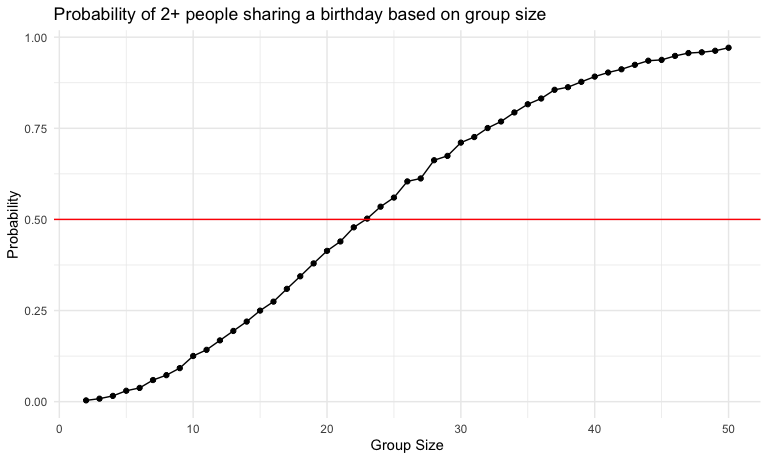
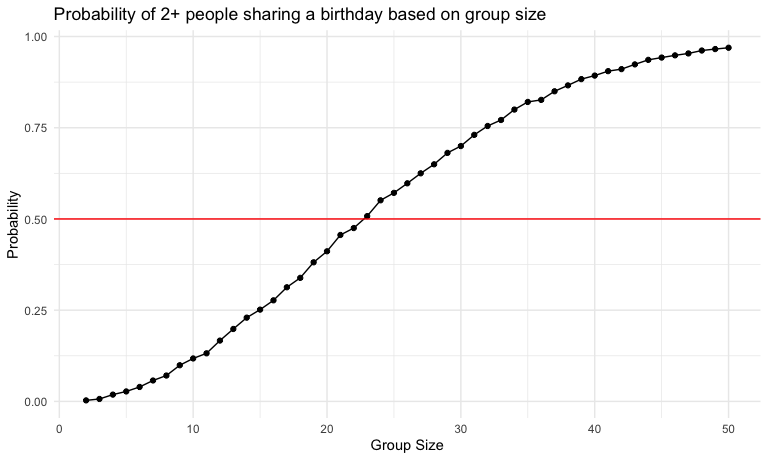
problem 2

diff --git a/p8105_hw5_sc5826.md b/p8105_hw5_sc5826.md
@@ -18,6 +18,22 @@ bday_sim_results =
   summarize(
     probability = mean(results)
   )
+
+bday_sim_results
+## # A tibble: 49 × 2
+##    group_size probability
+##         <int>       <dbl>
+##  1          2      0.0028
+##  2          3      0.0067
+##  3          4      0.0186
+##  4          5      0.0273
+##  5          6      0.0396
+##  6          7      0.0573
+##  7          8      0.0709
+##  8          9      0.0991
+##  9         10      0.118 
+## 10         11      0.132 
+## # ℹ 39 more rows
 ```
 
 ``` r
@@ -37,7 +53,160 @@ bday_sim_results|>
 
 The resulting curve is S-shaped, where the probability begins to taper
 around a group size of 50. At a group size of 2, the probability of at
-least 2 people sharing a birthday is 0.004. At a group size of 50, the
-probability of at least 2 people sharing a birthday is 0.971. To have
+least 2 people sharing a birthday is 0.003. At a group size of 50, the
+probability of at least 2 people sharing a birthday is 0.969. To have
 more than a 50% probability of at least 2 people sharing a birthday, the
 group size needs to be at least 23.
+
+## Problem 2
+
+Setting design parameters
+
+``` r
+n = 30
+sigma = 5
+mu = 0
+n_datasets = 5000
+alpha = 0.05
+```
+
+Running simulation for 𝜇 = 0:
+
+``` r
+normal_dist_sim_mu_0 = 
+  expand_grid(
+    mean = mu,
+    iter = 1:n_datasets
+  ) |> 
+  mutate(
+    results = map(mean, normal_distribution_sim)
+  ) |> 
+  unnest(results)
+normal_dist_sim_mu_0
+## # A tibble: 5,000 × 4
+##     mean  iter  mu_hat p.value
+##    <dbl> <int>   <dbl>   <dbl>
+##  1     0     1  0.0167   0.986
+##  2     0     2  0.227    0.843
+##  3     0     3 -0.517    0.517
+##  4     0     4 -0.246    0.804
+##  5     0     5  1.25     0.232
+##  6     0     6 -0.156    0.868
+##  7     0     7  0.373    0.719
+##  8     0     8 -0.563    0.475
+##  9     0     9  0.434    0.658
+## 10     0    10 -0.387    0.604
+## # ℹ 4,990 more rows
+```
+
+Repeating simulation for 𝜇 in {1, 2, 3, 4, 5, 6}:
+
+``` r
+normal_dist_sim = 
+  expand_grid(
+    mean = 1:6,
+    iter = 1:n_datasets
+  ) |> 
+  mutate(
+    results = map(mean, normal_distribution_sim)
+  ) |> 
+  unnest(results)
+normal_dist_sim
+## # A tibble: 30,000 × 4
+##     mean  iter mu_hat p.value
+##    <int> <int>  <dbl>   <dbl>
+##  1     1     1  1.21   0.135 
+##  2     1     2  1.40   0.149 
+##  3     1     3  1.85   0.0540
+##  4     1     4  1.25   0.184 
+##  5     1     5  1.28   0.186 
+##  6     1     6  1.84   0.103 
+##  7     1     7  0.616  0.528 
+##  8     1     8  1.91   0.0446
+##  9     1     9  1.64   0.0795
+## 10     1    10  2.06   0.0679
+## # ℹ 29,990 more rows
+```
+
+Plotting effect size vs. power
+
+``` r
+normal_dist_sim |> 
+  group_by(mean) |> 
+  summarize(
+    power = sum(p.value < alpha) / n()
+  ) |> 
+  ggplot(aes(x = mean, y = power)) + 
+  geom_point() +
+  geom_line() + 
+  xlab("True Mean (Effect Size)") + 
+  ylab("Power") + 
+  labs(
+    title = "Effect Size vs. Power"
+  ) 
+```
+
+<img src="p8105_hw5_sc5826_files/figure-gfm/unnamed-chunk-6-1.png" width="90%" />
+
+There is an overall positive correlation between effect size and power.
+When effect sizes are very small (\< 2), power is low. This means the
+null hypothesis (𝜇 = 0) is failing to be rejected more often. At larger
+effect sizes (\> 4), power is nearly 1. This means the null hypothesis
+(𝜇 = 0) is being rejected nearly every time.
+
+``` r
+avg_estimates = 
+  normal_dist_sim |> 
+  group_by(mean) |> 
+  summarize(avg_mu_hat = mean(mu_hat), n = n()) |> 
+  mutate(estimates_source = "All Samples")
+
+avg_estimates_null_rejected = normal_dist_sim |> 
+  filter(p.value < 0.05) |> 
+  group_by(mean) |> 
+  summarize(avg_mu_hat = mean(mu_hat), n = n()) |> 
+  mutate(estimates_source = "Filtered Samples (P < 0.05)")
+
+rbind(avg_estimates, avg_estimates_null_rejected) |> 
+  ggplot(aes(x = mean, y = avg_mu_hat, color = estimates_source)) + 
+  geom_point() + 
+  xlab("True Mean") + 
+  ylab("Average Estimate of the Mean") + 
+  labs(
+    color = "Source of Average Estimate"
+  )
+```
+
+<img src="p8105_hw5_sc5826_files/figure-gfm/unnamed-chunk-7-1.png" width="90%" />
+
+The sample average of mû across tests for which the null is rejected is
+only approximately equal to the true value of 𝜇 at larger effect sizes
+(\> 4). These larger effect sizes are also the ones at which power is
+nearly 1. As seen in the table below, as effect size increases, more
+tests result in rejecting the null hypothesis. Filtering for the tests
+where the p-value \< 0.05, means that we are only selecting samples that
+are very extreme (since p-value means the probability of seeing a result
+as extreme or more extreme than the result). When there is low power and
+a small effect size, many tests will fail to reject the null hypothesis,
+even if the data set is correctly estimating the true mean. This is also
+seen in the table below, where there is a larger difference between
+“avg_mu_hat_All Samples” and “avg_mu_hat_Filtered Samples (P \< 0.05)”
+at smaller effect sizes.
+
+``` r
+rbind(avg_estimates, avg_estimates_null_rejected) |> 
+  pivot_wider(
+    names_from = estimates_source,
+    values_from = c(avg_mu_hat, n)
+  ) |> 
+  knitr::kable()
+```
+
+| mean | avg_mu_hat_All Samples | avg_mu_hat_Filtered Samples (P \< 0.05) | n_All Samples | n_Filtered Samples (P \< 0.05) |
+|---:|---:|---:|---:|---:|
+| 1 | 0.9871119 | 2.227610 | 5000 | 902 |
+| 2 | 2.0217772 | 2.626844 | 5000 | 2878 |
+| 3 | 2.9867358 | 3.175171 | 5000 | 4434 |
+| 4 | 4.0023818 | 4.032171 | 5000 | 4937 |
+| 5 | 5.0239183 | 5.027019 | 5000 | 4995 |
+| 6 | 5.9956335 | 5.995634 | 5000 | 5000 |
